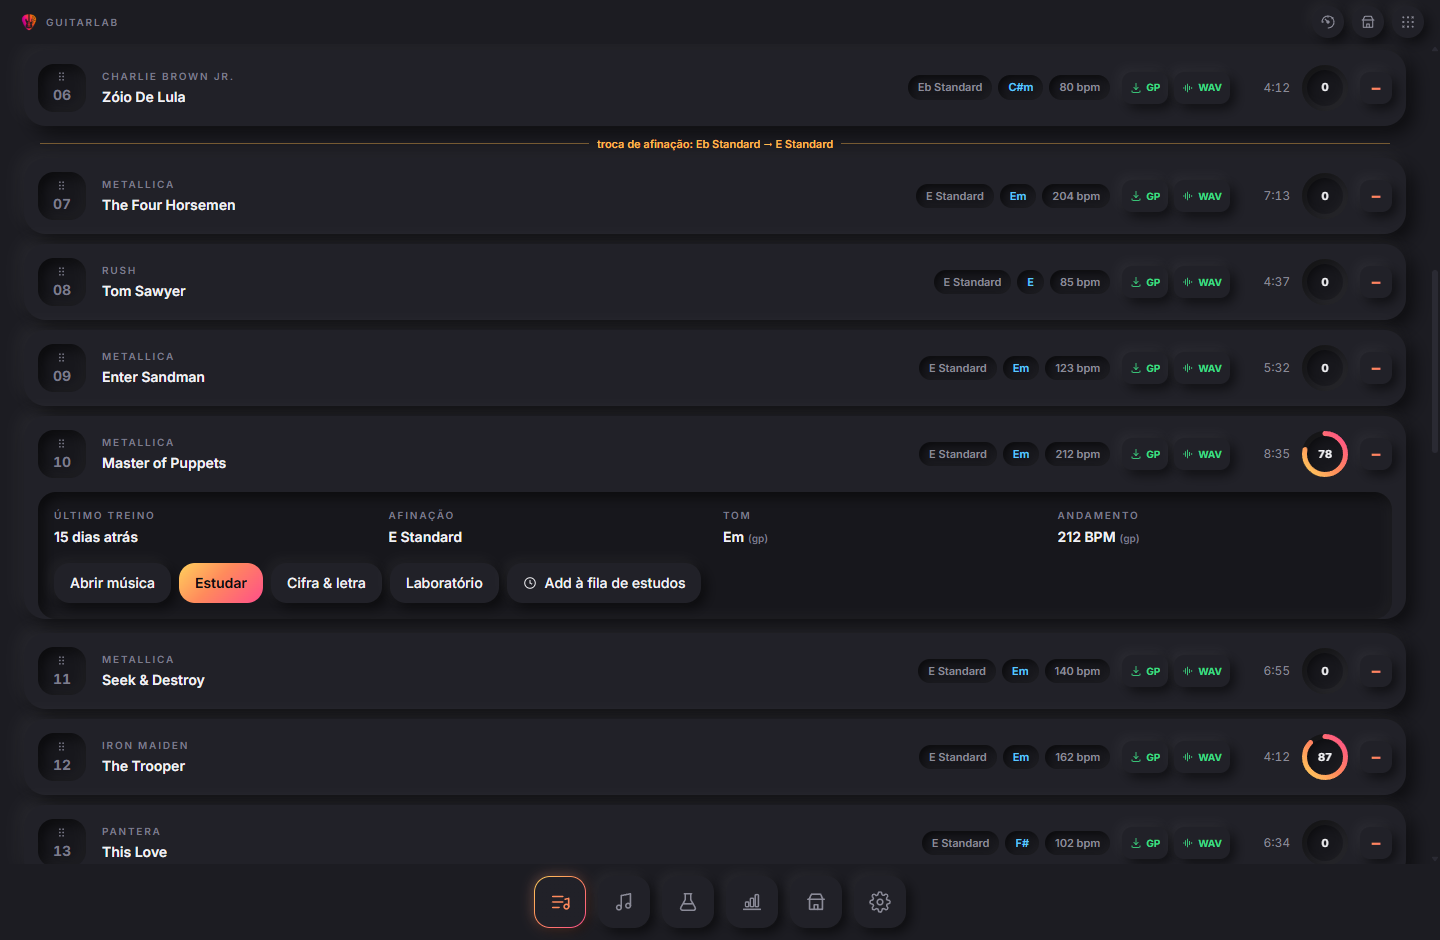
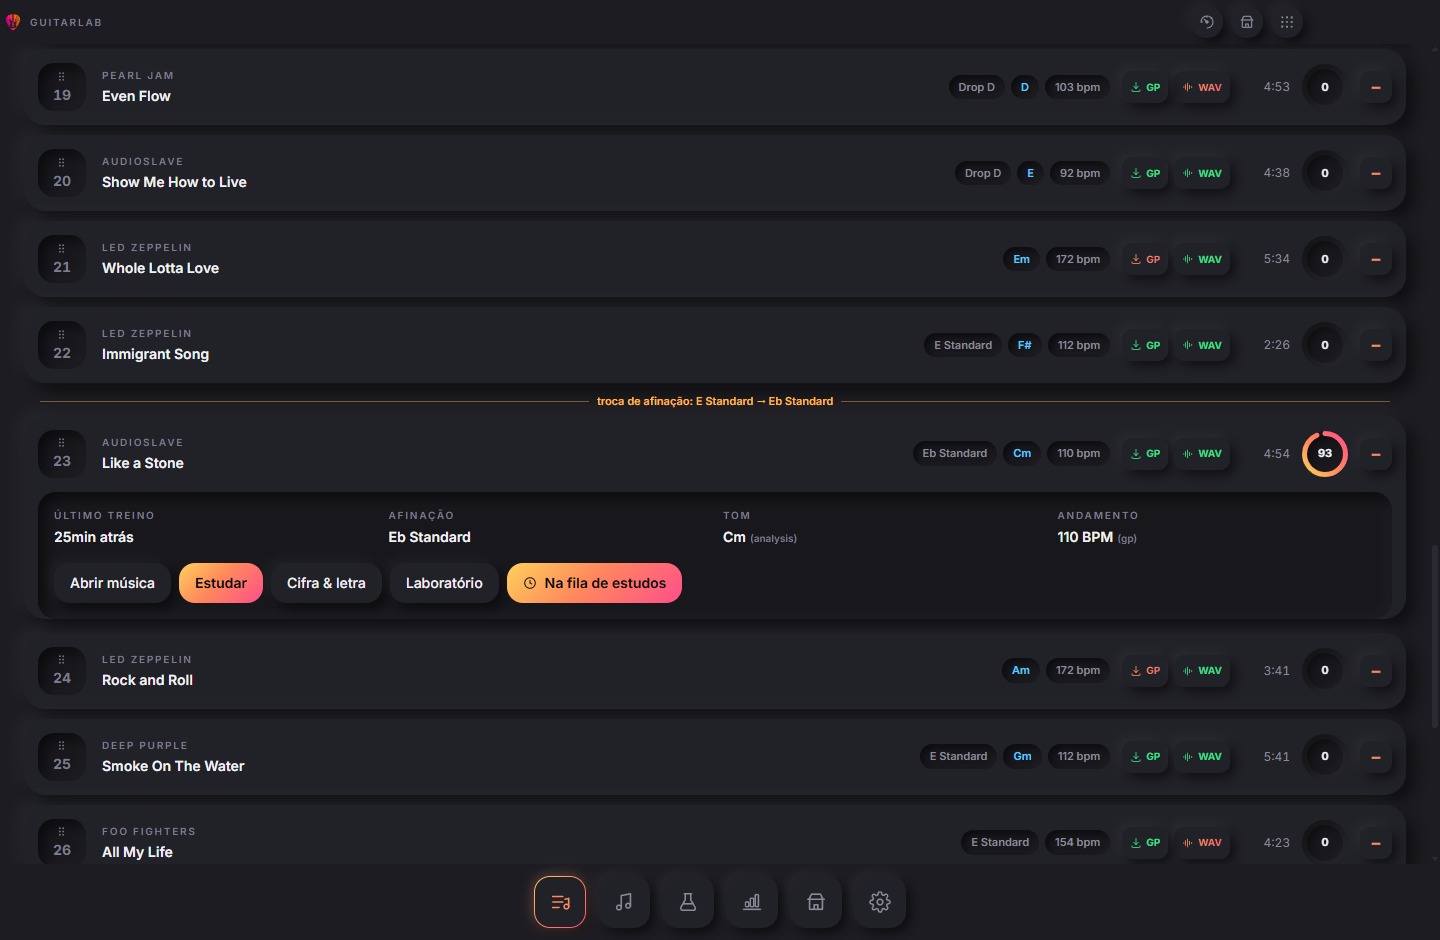
📸 docs: prints do README refeitos com Like a Stone
`npm run shots` com a música que o usuário pediu — que também é a que tem tudo
para mostrar: tablatura com diagramas de acorde, stems separados, acordes
detectados do áudio, cifra escrita, patches de timbre e os nove trechos.

O roteiro ganhou duas coisas para isso. A música é procurada primeiro no setlist
ativo e, se não estiver lá, na biblioteca inteira — antes ele falhava quando o
setlist ativo não era o que continha a música do tour. E o print da cifra agora
rola até o painel escrito: sem isso a foto era a grade de acordes detectados, e
a legenda embaixo dela falava de uma cifra que não aparecia.

diff --git a/README.es.md b/README.es.md
@@ -180,7 +180,7 @@ a mano. La interfaz que se ve está en portugués, por lo explicado justo arriba
 </tr>
 <tr>
 <td><b>Afinador</b> — micrófono y detección de tono, con el preajuste tomado del archivo GP.</td>
-<td><b>Modo escenario</b> — pantalla completa, letra y acordes grandes, avance por teclado o pedal (flechas / AvPág / RePág).</td>
+<td><b>Modo escenario</b> — pantalla completa, cifrado grande y ajustable, desplazamiento automático en diez velocidades, metrónomo al BPM de la canción, repertorio con los cambios de afinación, avance por teclado o pedal (flechas / AvPág / RePág).</td>
 </tr>
 </table>
 

diff --git a/README.pt-BR.md b/README.pt-BR.md
@@ -172,7 +172,7 @@ e o dirige, então elas são regeradas em vez de refeitas na mão.
 </tr>
 <tr>
 <td><b>Afinador</b> — microfone e detecção de pitch, com o preset vindo do arquivo GP.</td>
-<td><b>Modo Palco</b> — tela cheia, cifra grande e ajustável, repertório com as trocas de afinação, avanço por teclado ou pedal (setas / PageUp / PageDown).</td>
+<td><b>Modo Palco</b> — tela cheia, cifra grande e ajustável, rolagem automática em dez velocidades, metrônomo no BPM da música, repertório com as trocas de afinação, avanço por teclado ou pedal (setas / PageUp / PageDown).</td>
 </tr>
 </table>
 

diff --git a/README.md b/README.md
@@ -176,7 +176,7 @@ them is Portuguese, for the reason just above.
 </tr>
 <tr>
 <td><b>Tuner</b> — microphone and pitch detection, with the preset taken from the GP file.</td>
-<td><b>Stage mode</b> — full screen, large lyrics and chords, advance by keyboard or foot pedal (arrows / PageUp / PageDown).</td>
+<td><b>Stage mode</b> — full screen, large adjustable chart, auto-scroll at ten speeds, a click at the song’s own BPM, the set with its tuning changes, advance by keyboard or foot pedal (arrows / PageUp / PageDown).</td>
 </tr>
 </table>
 
